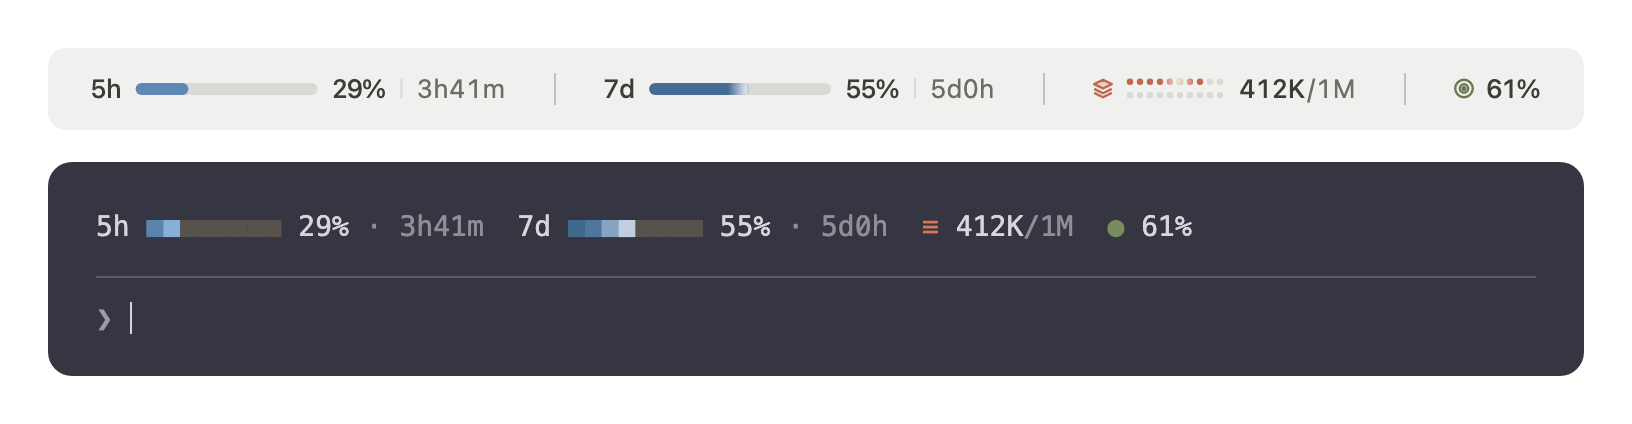
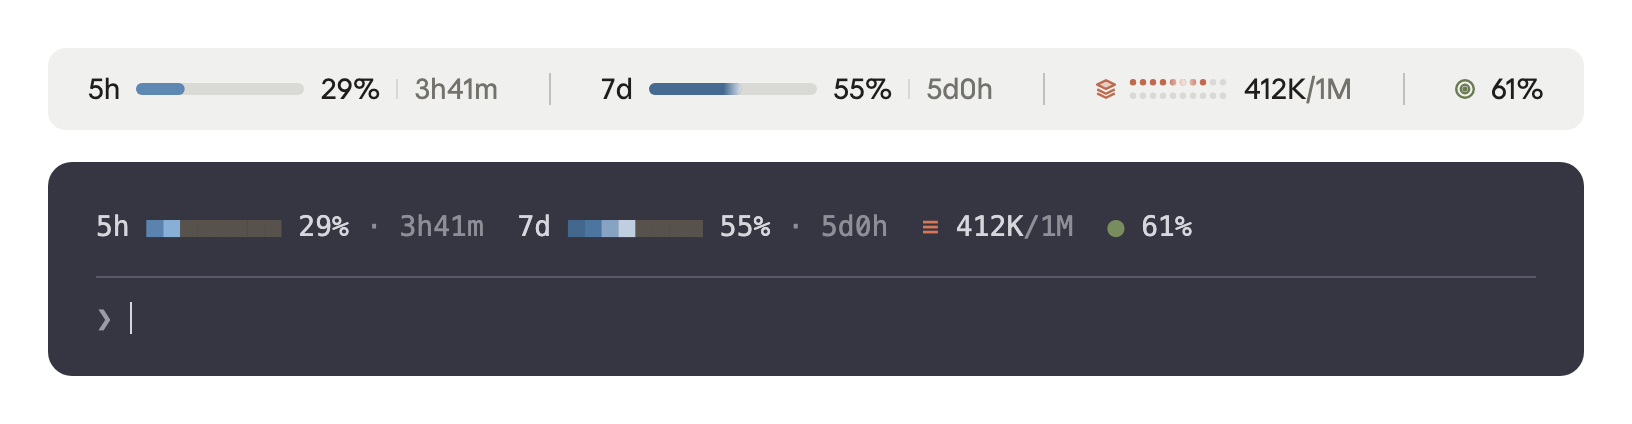
README 预览图按 2.0.0 重新渲染
- banner、桌面端浅色/深色三张图改为新结构：图形为插件输出的 SVG，文字按 Claude 的方式以 Anthropic Sans 排版
- 终端预览不变（2.0.0 未改终端输出）
- 截图说明更新：文字字号与颜色由 Claude 决定，图中为近似值

diff --git a/README.md b/README.md
@@ -170,7 +170,7 @@ Issues and pull requests are welcome.
 
 ## Screenshots
 
-These images are rendered from the SVG and terminal text the mod output in 1.9.0, inside a frame styled after Claude Code; they are not screenshots of the app. Since 2.0.0 the desktop text uses Claude's own font, so the letterforms differ slightly.
+These images are rendered from what the mod outputs, inside a frame styled after Claude Code; they are not screenshots of the app. On the desktop the graphics are the mod's SVG and the text is set in Anthropic Sans the way Claude draws it; Claude decides the text size and color, so those are approximate here.
 
 **Desktop app, light mode**
 

diff --git a/README.zh-CN.md b/README.zh-CN.md
@@ -172,7 +172,7 @@ claude plugin test .
 
 ## 截图
 
-以下图片由 1.9.0 版插件实际输出的 SVG 与终端文字渲染而成，外框按 Claude Code 的样式仿制，并非应用界面截图。2.0.0 起桌面端文字改用 Claude 界面字体，实际字形与图中略有不同。
+以下图片由插件实际输出渲染而成，外框按 Claude Code 的样式仿制，并非应用界面截图。桌面端的图形是插件输出的 SVG，文字按 Claude 的方式以 Anthropic Sans 排版；文字的字号和颜色由 Claude 决定，图中为近似值。
 
 **桌面端，浅色模式**
 
